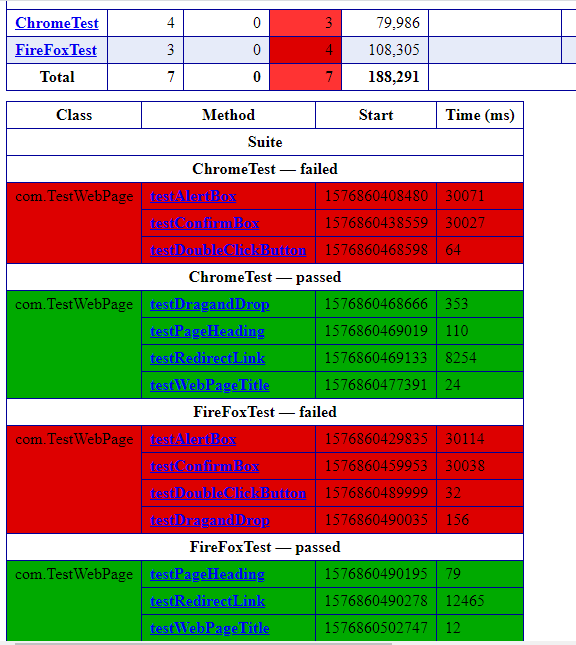
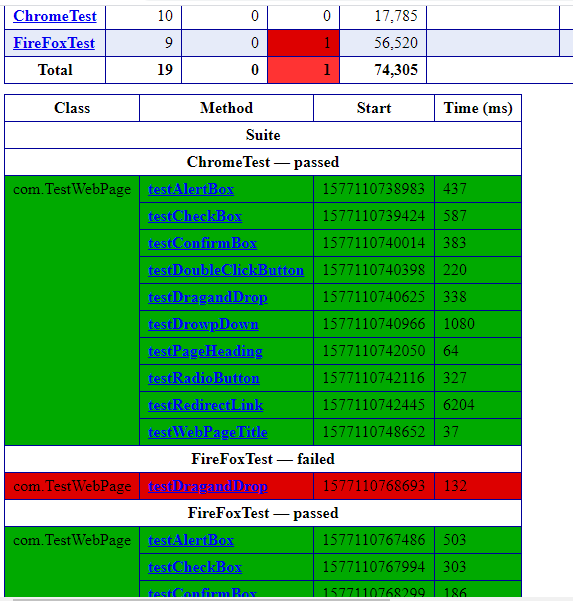
Test Script Updated

diff --git a/src/com/TestWebPage.java b/src/com/TestWebPage.java
@@ -11,6 +11,9 @@ import org.openqa.selenium.chrome.ChromeDriver;
 import org.openqa.selenium.firefox.FirefoxDriver;
 import org.openqa.selenium.interactions.Action;
 import org.openqa.selenium.interactions.Actions;
+import org.openqa.selenium.support.ui.ExpectedConditions;
+import org.openqa.selenium.support.ui.Select;
+import org.openqa.selenium.support.ui.WebDriverWait;
 import org.testng.Assert;
 import org.testng.annotations.AfterClass;
 import org.testng.annotations.BeforeClass;
@@ -55,10 +58,37 @@ public class TestWebPage {
 	}
 	
 	@Test
+	public void testDrowpDown() {
+		Select dropDown = new Select(driver.findElement(By.id("testingDropdown")));
+		dropDown.selectByValue("Manual");
+		dropDown.selectByValue("Database");
+		dropDown.selectByValue("Performance");
+	}
+	
+	@Test
+	public void testRadioButton() {
+		Assert.assertFalse(driver.findElement(By.xpath("//input[@id='male']")).isSelected());
+		Assert.assertFalse(driver.findElement(By.xpath("//input[@id='female']")).isSelected());
+		driver.findElement(By.xpath("//input[@id='female']")).click();
+		Assert.assertTrue(driver.findElement(By.xpath("//input[@id='female']")).isSelected());
+		driver.findElement(By.xpath("//input[@id='male']")).click();
+		Assert.assertTrue(driver.findElement(By.xpath("//input[@id='male']")).isSelected());
+		Assert.assertFalse(driver.findElement(By.xpath("//input[@id='female']")).isSelected());
+	}
+	
+	@Test
+	public void testCheckBox() {
+		Assert.assertFalse(driver.findElement(By.className("Automation")).isSelected());
+		Assert.assertFalse(driver.findElement(By.className("Performance")).isSelected());
+		driver.findElement(By.className("Performance")).click();
+		Assert.assertTrue(driver.findElement(By.className("Performance")).isSelected());
+	}
+	
+	@Test
 	public void testDoubleClickButton() {
-		WebElement target = driver.findElement(By.id("dblClkBtn"));
 		Actions act = new Actions(driver);
-		act.doubleClick(target);
+		WebElement target = driver.findElement(By.id("dblClkBtn"));
+		act.doubleClick(target).perform();
 		Alert confirmBox = driver.switchTo().alert();
 		Assert.assertEquals(confirmBox.getText(), "hi, JavaTpoint Testing");
 		confirmBox.accept();
@@ -66,24 +96,24 @@ public class TestWebPage {
 	
 	@Test
 	public void testAlertBox() {
-		//JavascriptExecutor js = (JavascriptExecutor)driver;  
-	    //js.executeScript("scroll(0, 450)");
-		driver.findElement(By.linkText("Generate Alert Box")).click();
+		WebElement inputElement = driver.findElement(By.xpath("//button[starts-with(@onclick,'alert(')]"));
+		((JavascriptExecutor)driver).executeScript("arguments[0].checked = true;", inputElement);
+		inputElement.click();
 		Alert alertBox = driver.switchTo().alert();
 		Assert.assertTrue(alertBox.getText().contains("hi, JavaTpoint Testing"));
 		alertBox.accept();
 	}
 	
 	@Test
-	public void testConfirmBox() {
-	    //JavascriptExecutor js = (JavascriptExecutor)driver;  
-	    //js.executeScript("scroll(0, 450)");  
-		driver.findElement(By.linkText("Generate Alert Box")).click();
+	public void testConfirmBox() {  
+		WebElement inputElement = driver.findElement(By.xpath("//button[starts-with(@onclick,'generateConfirmBox()')]"));
+		((JavascriptExecutor)driver).executeScript("arguments[0].checked = true;", inputElement);
+		inputElement.click();
 		Alert confirmBox = driver.switchTo().alert();
 		Assert.assertTrue(confirmBox.getText().contains("Press a button!"));;
 		confirmBox.accept();
 		driver.findElement(By.id("demo")).getText().contains("You pressed OK!");
-		driver.findElement(By.linkText("Generate Confirm Box")).click();
+		driver.findElement(By.xpath("//button[starts-with(@onclick,'generateConfirmBox()')]")).click();
 		confirmBox.dismiss();
 		driver.findElement(By.id("demo")).getText().contains("You pressed Cancel!");
 	}
